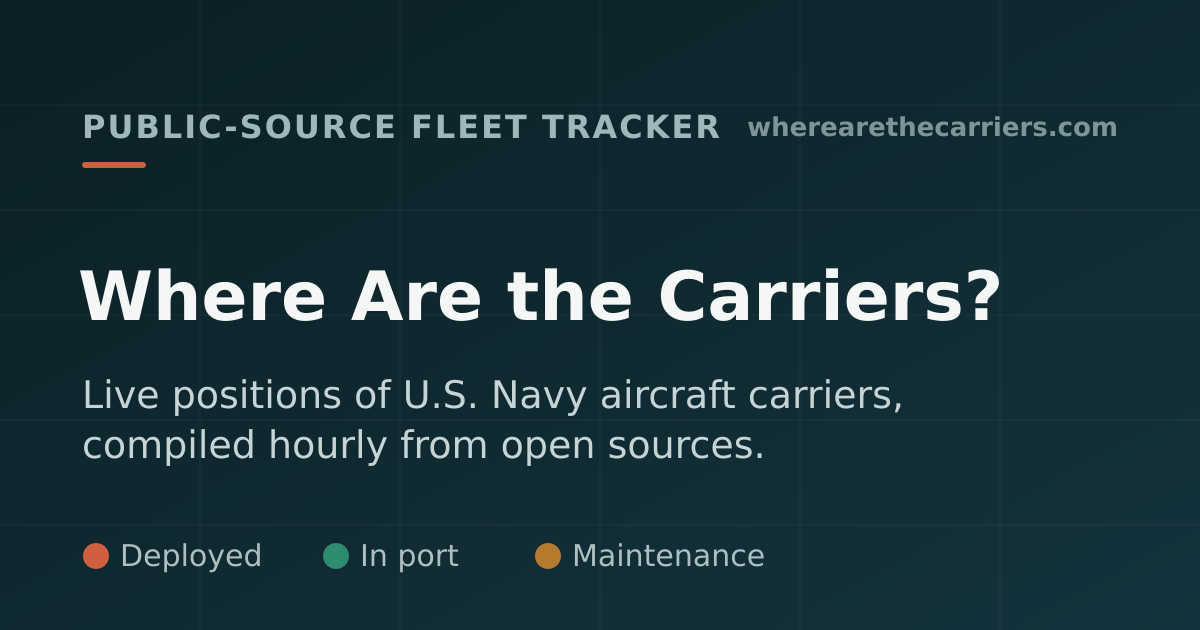
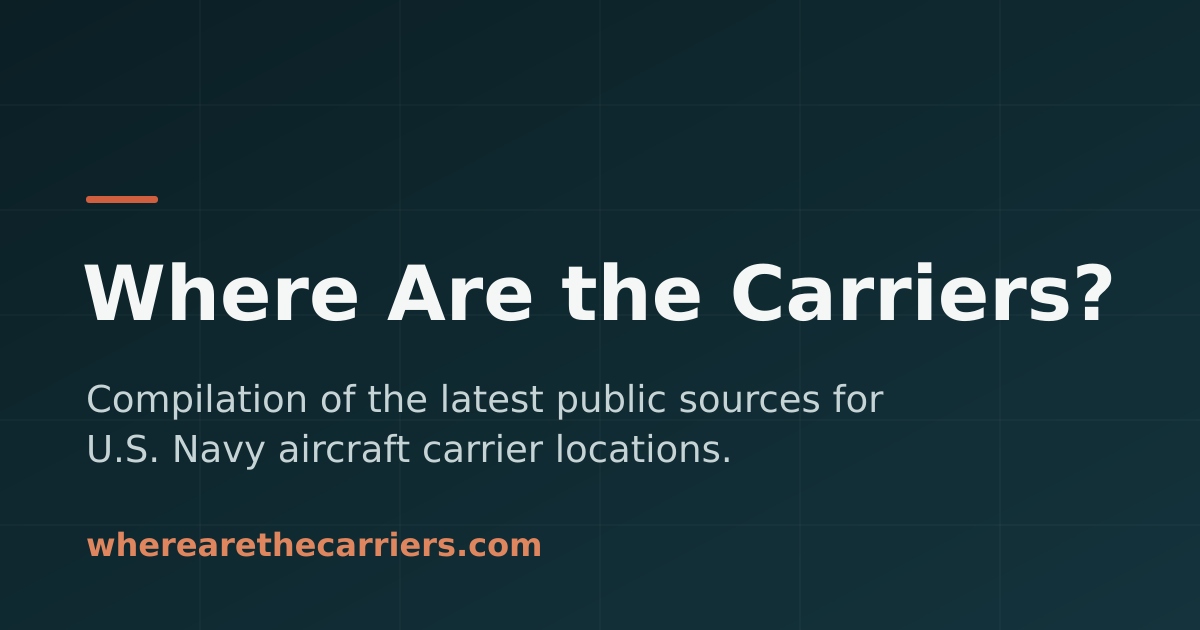
Simplify OG card: drop eyebrow/legend, new description, URL below
Removes the top "PUBLIC-SOURCE FLEET TRACKER" line and the status
legend, moves the URL beneath the description, and updates all page
descriptions (meta/OG/Twitter/JSON-LD) to match the card.

diff --git a/docs/index.html b/docs/index.html
@@ -4,7 +4,7 @@
     <meta charset="utf-8">
     <meta name="viewport" content="width=device-width, initial-scale=1">
     <title>Where Are the Carriers?</title>
-    <meta name="description" content="Live, public-source positions of U.S. Navy aircraft carriers, compiled hourly from open sources including USNI News, GoNavy.jp, Stratfor, and The War Zone.">
+    <meta name="description" content="Compilation of the latest public sources for U.S. Navy aircraft carrier locations.">
     <link rel="canonical" href="https://wherearethecarriers.com/">
 
     <!-- Open Graph -->
@@ -12,7 +12,7 @@
     <meta property="og:site_name" content="Where Are the Carriers?">
     <meta property="og:url" content="https://wherearethecarriers.com/">
     <meta property="og:title" content="Where Are the Carriers?">
-    <meta property="og:description" content="Live, public-source positions of U.S. Navy aircraft carriers, compiled hourly from open sources.">
+    <meta property="og:description" content="Compilation of the latest public sources for U.S. Navy aircraft carrier locations.">
     <meta property="og:image" content="https://wherearethecarriers.com/og-image.png">
     <meta property="og:image:width" content="1200">
     <meta property="og:image:height" content="630">
@@ -21,7 +21,7 @@
     <!-- Twitter -->
     <meta name="twitter:card" content="summary_large_image">
     <meta name="twitter:title" content="Where Are the Carriers?">
-    <meta name="twitter:description" content="Live, public-source positions of U.S. Navy aircraft carriers, compiled hourly from open sources.">
+    <meta name="twitter:description" content="Compilation of the latest public sources for U.S. Navy aircraft carrier locations.">
     <meta name="twitter:image" content="https://wherearethecarriers.com/og-image.png">
 
     <script type="application/ld+json">
@@ -30,7 +30,7 @@
       "@type": "WebSite",
       "name": "Where Are the Carriers?",
       "url": "https://wherearethecarriers.com/",
-      "description": "Live, public-source positions of U.S. Navy aircraft carriers, compiled hourly from open sources."
+      "description": "Compilation of the latest public sources for U.S. Navy aircraft carrier locations."
     }
     </script>
 
